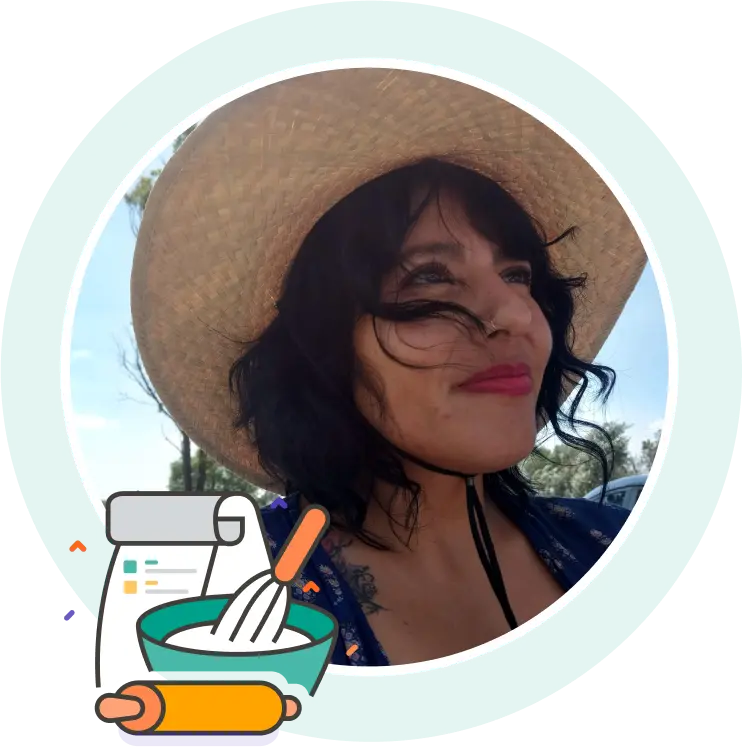
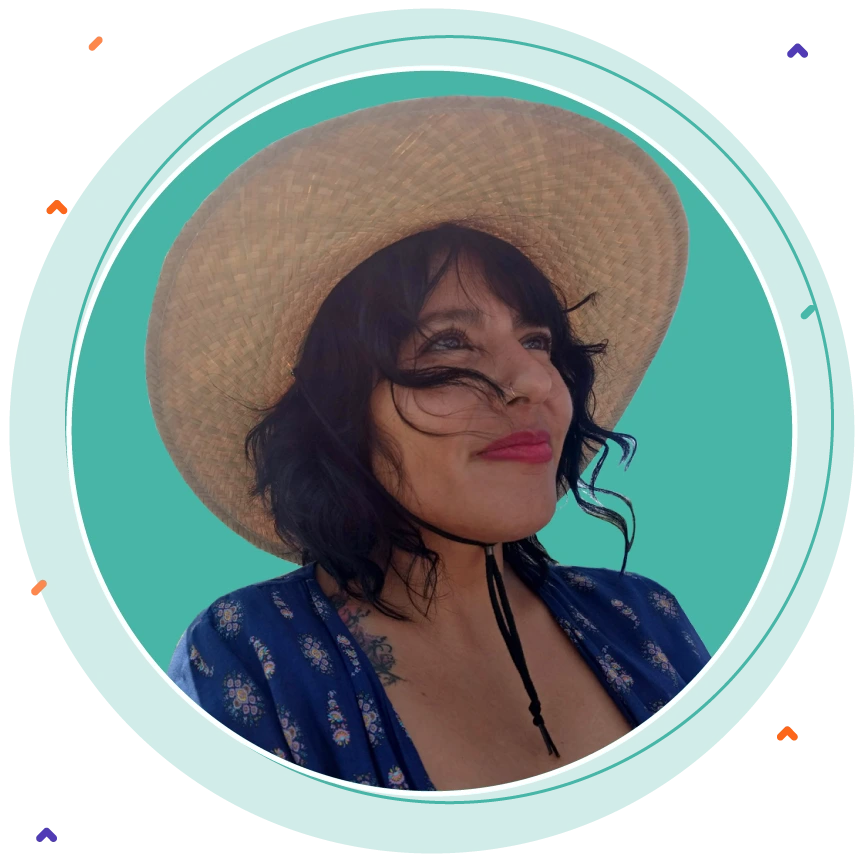
Terminamos de subir las fotografías en las cards y arreglamos imagen en index y pastry con sus respectivos breakpoints

diff --git a/src/pages/faq.html b/src/pages/faq.html
@@ -100,7 +100,7 @@
               id="flush-collapseOne"
               class="accordion-collapse collapse"
               data-bs-parent="#accordionFlushExample"
-            >
+            > 
               <div class="accordion-body">
                 <img
                   src="../img/como-cotizar.webp"
@@ -110,6 +110,7 @@
               </div>
             </div>
           </div>
+          
           <div class="accordion-item">
             <h2 class="accordion-header">
               <button
@@ -129,13 +130,11 @@
               data-bs-parent="#accordionFlushExample"
             >
               <div class="accordion-body">
-                Placeholder content for this accordion, which is intended to
-                demonstrate the <code>.accordion-flush</code> class. This is the
-                second item's accordion body. Let's imagine this being filled
-                with some actual content.
+                <p>Contamos con envíos a domicilio dentro de CDMX y área metropolitana. Para otras ubicaciones, consúltanos por WhatsApp.</p>
               </div>
             </div>
           </div>
+          
           <div class="accordion-item">
             <h2 class="accordion-header">
               <button
@@ -155,19 +154,15 @@
               data-bs-parent="#accordionFlushExample"
             >
               <div class="accordion-body">
-                Placeholder content for this accordion, which is intended to
-                demonstrate the <code>.accordion-flush</code> class. This is the
-                third item's accordion body. Nothing more exciting happening
-                here in terms of content, but just filling up the space to make
-                it look, at least at first glance, a bit more representative of
-                how this would look in a real-world application.
+                <p>Tenemos puntos de entrega en diferentes zonas. Al realizar tu pedido, te compartimos las ubicaciones disponibles según tu colonia o alcaldía.</p>
               </div>
             </div>
           </div>
+          
           <div class="accordion-item">
             <h2 class="accordion-header">
               <button
-                class="accordion-button collapsed pb-0"
+                class="accordion-button collapsed"
                 type="button"
                 data-bs-toggle="collapse"
                 data-bs-target="#flush-collapseFour"
@@ -183,15 +178,69 @@
               data-bs-parent="#accordionFlushExample"
             >
               <div class="accordion-body">
-                Placeholder content for this accordion, which is intended to
-                demonstrate the <code>.accordion-flush</code> class. This is the
-                third item's accordion body. Nothing more exciting happening
-                here in terms of content, but just filling up the space to make
-                it look, at least at first glance, a bit more representative of
-                how this would look in a real-world application.
+                <p>Sí, creamos pasteles personalizados para bodas. Podemos agendar una degustación previa para elegir sabores, tamaño y decoración ideal para tu evento.</p>
               </div>
             </div>
           </div>
+          
+          <div class="accordion-item">
+            <h2 class="accordion-header">
+              <button
+                class="accordion-button collapsed"
+                type="button"
+                data-bs-toggle="collapse"
+                data-bs-target="#flush-collapseFive"
+                aria-expanded="false"
+                aria-controls="flush-collapseFive"
+              >
+                ¿Qué sabores puedo elegir?
+              </button>
+            </h2>
+            <div
+              id="flush-collapseFive"
+              class="accordion-collapse collapse"
+              data-bs-parent="#accordionFlushExample"
+            >
+              <div class="accordion-body">
+                <ul class="mb-0">
+                  <li><strong>Chocolate:</strong> Bizcocho con 50% de cacao, ideal para los amantes del chocolate.</li>
+                  <li><strong>Vainilla:</strong> Bizcocho suave de pasta de vainilla clásica.</li>
+                  <li><strong>Red Velvet:</strong> Bizcocho de color rojo oscuro con cacao y vainilla.</li>
+                  <li><strong>Lavanda:</strong> Bizcocho delicado con trocitos de lavanda y un toque de vainilla.</li>
+                  <li><strong>Cajeta:</strong> Bizcocho de vainilla, bañado en dulce de leche.</li>
+                  <li><strong>Tres leches:</strong> Bizcocho esponjoso y húmedo, bañado en tres tipos de lácteos.</li>
+                  <li><strong>Zanahoria:</strong> Bizcocho de zanahoria con nueces y un toque especiado.</li>
+                  <li><strong>Elote:</strong> Panqué casero con granos de elote fresco.</li>
+                </ul>
+              </div>
+            </div>
+          </div>
+
+          <div class="accordion-item">
+            <h2 class="accordion-header">
+              <button
+                class="accordion-button collapsed"
+                type="button"
+                data-bs-toggle="collapse"
+                data-bs-target="#flush-collapseSix"
+                aria-expanded="false"
+                aria-controls="flush-collapseSix"
+              >
+                ¿Tienen degustaciones para pasteles?
+              </button>
+            </h2>
+            <div
+              id="flush-collapseSix"
+              class="accordion-collapse collapse"
+              data-bs-parent="#accordionFlushExample"
+            >
+            <div class="accordion-body">
+              <p><strong>¡Claro que sí!</strong> Nos encanta que pruebes antes de elegir. Ofrecemos degustaciones para pasteles a partir de pedidos para 30 personas o más. El costo es de $350, pero si decides realizar tu pedido con nosotros, te ofrecemos un 10% de descuento.
+                Ten en cuenta que el costo de la degustación no es reembolsable.
+                </p>
+            </div>
+          </div>
+          
         </section>
       </section>
     </main>

diff --git a/src/js/data.js b/src/js/data.js
@@ -24,17 +24,17 @@ export const productos = {
         { nombre: "Royal Icing", alergenos_comunes: "sin gluten, lácteos", otros_ingredientes: "cacahuate, mantequilla", imagen: "../img/royalicing.webp" },
     ],
     tartas: [
-        { nombre: "Tarta de mango", alergenos_comunes: "gluten, lácteos", otros_ingredientes: "harina, mango, mantequilla", imagen: "../img/mango.jpg" },
+        { nombre: "Tarta de mango", alergenos_comunes: "gluten, lácteos", otros_ingredientes: "harina, mango, mantequilla", imagen: "../img/tarta-mango.webp" },
         { nombre: "Tarta de blueberry", alergenos_comunes: "gluten, lácteos", otros_ingredientes: "harina, blueberry, mantequilla", imagen: "../img/tarta-blueberry.webp" },
-        { nombre: "Tarta de frutos", alergenos_comunes: "gluten, lácteos", otros_ingredientes: "harina, frutos mixtos, mantequilla", imagen: "../img/tarta-frutos.jpg" },
+        { nombre: "Tarta de frutos", alergenos_comunes: "gluten, lácteos", otros_ingredientes: "harina, frutos mixtos, mantequilla", imagen: "../img/tarta-frutos.webp" },
         { nombre: "Tarta de calabaza", alergenos_comunes: "gluten, lácteos", otros_ingredientes: "harina, calabaza, mantequilla", imagen: "../img/tarta-calabaza.webp" },
         { nombre: "Tarta de higo", alergenos_comunes: "gluten, lácteos", otros_ingredientes: "harina, higo, mantequilla", imagen: "../img/tarta-higo.webp" },
-        { nombre: "Tarta de limón", alergenos_comunes: "gluten, lácteos", otros_ingredientes: "harina, limón, mantequilla", imagen: "../img/tarta-limon.jpg" },
+        { nombre: "Tarta de limón", alergenos_comunes: "gluten, lácteos", otros_ingredientes: "harina, limón, mantequilla", imagen: "../img/tarta-limon.webp" },
         { nombre: "Tarta de frutos rojos", alergenos_comunes: "gluten, lácteos", otros_ingredientes: "harina, frutos rojos, mantequilla", imagen: "../img/tarta-frutos-rojos.webp" },
-        { nombre: "Tarta de zarzamora", alergenos_comunes: "gluten, lácteos", otros_ingredientes: "harina, zarzamora, mantequilla", imagen: "../img/tarta-zarzamora.jpg" },
+        { nombre: "Tarta de manzana", alergenos_comunes: "gluten, lácteos", otros_ingredientes: "harina, zarzamora, mantequilla", imagen: "../img/tarta-manzana.webp" },
         { nombre: "Tarta de maracuyá", alergenos_comunes: "gluten, lácteos", otros_ingredientes: "harina, maracuyá, mantequilla", imagen: "../img/tarta-maracuya.webp" },
         { nombre: "Tarta de chocolate", alergenos_comunes: "gluten, lácteos", otros_ingredientes: "harina, chocolate, mantequilla", imagen: "../img/tarta-chocolate.webp" },
-        { nombre: "Tarta de avellana", alergenos_comunes: "gluten, lácteos, frutos secos", otros_ingredientes: "harina, avellana, mantequilla", imagen: "../img/tarta-avellana.jpg" },
+        { nombre: "Tarta de avellana", alergenos_comunes: "gluten, lácteos, frutos secos", otros_ingredientes: "harina, avellana, mantequilla", imagen: "../img/tarta-avellana.webp" },
         { nombre: "Tarta de frambuesas", alergenos_comunes: "gluten, lácteos, frutos secos", otros_ingredientes: "harina, avellana, mantequilla", imagen: "../img/tarta-frambuesas.webp" },
     ],
     especiales: [
@@ -66,7 +66,7 @@ cupcakes: [
 ],
 
 panques: [
-    { nombre: "Pan de elote", alergenos_comunes: "gluten, lácteos", otros_ingredientes: "Harina, Elote, Mantequilla", imagen: "../img/p-elote.jpg" },
+    { nombre: "Pan de elote", alergenos_comunes: "gluten, lácteos", otros_ingredientes: "Harina, Elote, Mantequilla", imagen: "../img/p-elote.webp" },
     { nombre: "Panqué de calabaza", alergenos_comunes: "gluten, lácteos", otros_ingredientes: "Harina, Calabaza, Mantequilla", imagen: "../img/p-calabaza.webp" },
     { nombre: "Panqué de plátano", alergenos_comunes: "gluten, lácteos", otros_ingredientes: "Harina, Plátano, Mantequilla", imagen: "../img/p-platano.webp" },
     { nombre: "Panqué de limón amarillo", alergenos_comunes: "gluten, lácteos", otros_ingredientes: "Harina, Limón Amarillo, Mantequilla", imagen: "../img/p-limon.webp" },

diff --git a/src/css/style.css b/src/css/style.css
@@ -314,7 +314,6 @@ form input[type="search"] {
 }
 
 .padding-grey {
-  display: flex;
   background-color: rgba(209, 212, 216, 0.3);
   margin: 0;
   padding: 0;
@@ -326,8 +325,8 @@ form input[type="search"] {
 
 .text {
   /* flex: 1; */
-  padding: 110px;
-  max-width: 50%;
+  padding: 50px;
+  max-width: 80%;
   /* position: absolute; */
   display: flex;
   justify-content: center;
@@ -346,9 +345,11 @@ form input[type="search"] {
 }
 
 .image img {
-  width: 85%;
+  width: 95%;
   height: auto;
   display: block;
+  margin: 0 auto;
+  padding-bottom: 110px;
 }
 
 /* 📌 Introducción */
@@ -527,6 +528,16 @@ form input[type="search"] {
     margin: 0;
   }
 
+  /* Nosotros */
+  .padding-green {
+    background-color: rgba(72, 181, 166, 0.2);
+    margin: 0;
+    padding: 0;
+    position: relative;
+    overflow: hidden;
+    box-sizing: border-box;
+    align-items: center;
+  }
 
 /* FAQ */
 .accordion {
@@ -534,7 +545,29 @@ form input[type="search"] {
   flex-direction: column;
   border-bottom: 1px solid rgba(209, 212, 216);
   gap: 1rem;
-  padding-bottom: 25px;
+  margin-bottom: 25px;
+}
+
+/* Cambiar color del texto del encabezado del acordeón */
+.accordion-button {
+  color: #503ab5;
+  font-size: 1.3rem;
+}
+
+/* Quitar el color de fondo azul al hacer clic (estado activo) */
+.accordion-button:not(.collapsed) {
+  background-color: transparent;
+  box-shadow: none;
+  color: #503ab5;
+}
+
+.accordion-item {
+  padding-bottom: 15px;
+}
+
+.accordion-body p, .accordion-body ul {
+  font-size: 1.1rem;
+  font-weight: 400;
 }
 
 /* Aviso de Privacidad */
@@ -701,6 +734,19 @@ footer img {
     font-size: 1.3rem;
   }
 
+  .text {
+    padding: 110px;
+  }
+
+  .image {
+    justify-content: center;
+  }
+
+  .image img {
+    width: 75%;
+    padding-right: 0;
+  }
+
   /* Índice */
   .index-list {
     gap: 12px; /* Espacio más amplio entre los botones */
@@ -804,8 +850,8 @@ footer img {
   }
 
   p {
-    font-size: 1.4rem; /* 19.2px */
-    line-height: 1.8; /* Mayor legibilidad */
+    font-size: 1.2rem; /* 19.2px */
+    line-height: 1.6; /* Mayor legibilidad */
     color: #333; /* Un tono más oscuro para mejor contraste */
   }
 
@@ -829,9 +875,19 @@ footer img {
     width: 50%; /* En mobile, será más grande */
   }
 
+  .text {
+    padding: 110px;
+    max-width: 45%
+  }
+
+  .image img {
+    padding-right: 100px;
+  }
+
   /* Índice */
   .index-list {
-    max-width: 70%; /* Reduce el ancho máximo en pantallas grandes */
+    /* max-width: 70%;  */
+    /* Reduce el ancho máximo en pantallas grandes */
     gap: 15px;
   }
 
@@ -855,7 +911,7 @@ footer img {
   }
 
   .ubication iframe {
-    max-width: 850px;
+    max-width: 700px;
   }
 
   .text-ubication {
@@ -864,15 +920,12 @@ footer img {
     text-align: left; /* Volver a alinear el texto a la izquierda en desktop */
   }
 
+  .padding-grey {
+    display: flex;
+  }
+
   /* Nosotros */
   .padding-green {
     display: flex;
-    background-color: rgba(72, 181, 166, 0.2);
-    margin: 0;
-    padding: 0;
-    position: relative;
-    overflow: hidden;
-    box-sizing: border-box;
-    align-items: center;
   }
 }

diff --git a/src/pages/nosotros.html b/src/pages/nosotros.html
@@ -65,30 +65,30 @@
         <div class="text">
           <h1>¿Quiénes somos?</h1>
           <p>
-            En el corazón de Chuen, nuestra fundadora, Erika Valdez, personifica
-            la esencia y pasión que impulsa este espacio. Originaria de la
+            En el corazón de <strong>Chuen, fundadora, Erika Valdez, personifica
+              la esencia y pasión</strong> que impulsa este espacio. Originaria de la
             Ciudad de México, Erika trae consigo una sólida formación en
             gastronomía, respaldada por una serie de cursos que han enriquecido
             sus conocimientos en el arte culinario.
           </p>
           <p>
-            Su amor por la naturaleza se manifiesta en su conexión con las
-            plantas, reflejada a través de su pequeño huerto en casa. Cada hoja
-            y flor inspira a Erika, quien incorpora frescura y vitalidad a
+            <strong>Su amor por la naturaleza se manifiesta en su conexión con las
+              plantas,</strong> reflejada a través de su pequeño huerto en casa. Cada hoja
+            y flor inspira a Erika, quien incorpora <strong>frescura y vitalidad</strong> a
             nuestras creaciones de repostería artesanal gourmet.
           </p>
           <p>
             Erika no solo es una maestra en la cocina, sino también una
-            apasionada del café, una aficionada al cine y, sobre todo, encuentra
-            inspiración en cada detalle de la vida. Sin embargo, su corazón
+            apasionada del café, una aficionada al cine y, sobre todo, <strong>encuentra
+              inspiración en cada detalle de la vida.</strong> Sin embargo, su corazón
             pertenece a Pulque, su peludo compañero de cuatro patas. Juntos,
             comparten momentos de alegría y complicidad que enriquecen la
             esencia de Chuen.
           </p>
           <p>
-            Cada postre que creado, lleva consigo la esencia de Erika y su
-            dedicación a la excelencia culinaria. Únete a nosotros y descubre la
-            historia que hay detrás de cada sabor, guiada por la experiencia y
+            Cada postre creado, lleva consigo la esencia de Erika y su
+            dedicación a la excelencia culinaria. <strong>Únete a nosotros y descubre la
+              historia que hay detrás de cada sabor,</strong> guiada por la experiencia y
             el amor que Erika aporta a Chuen.
           </p>
           <p>

diff --git a/src/index.html b/src/index.html
@@ -320,6 +320,26 @@
           </picture>
         </div>
       </section>
+
+      <!-- Sección del feed de Instagram -->
+<section class="instagram-feed padding">
+  <div class="container text-center">
+    <h2 class="mb-4">Síguenos en Instagram</h2>
+    <!-- LightWidget script y iframe -->
+    <script src="https://cdn.lightwidget.com/widgets/lightwidget.js"></script>
+    <iframe src="//lightwidget.com/widgets/475c016e4c945ce882397effbfe84e5a.html"
+            scrolling="no"
+            allowtransparency="true"
+            class="lightwidget-widget"
+            style="width:100%;border:0;overflow:hidden;">
+    </iframe>
+    <!-- <p class="mt-3">
+      <a href="https://www.instagram.com/chuen.creando.sensaciones/" target="_blank" class="custom-link">
+        @chuen.creando.sensaciones
+      </a>
+    </p> -->
+  </div>
+</section>
     </main>
 
     <footer>
